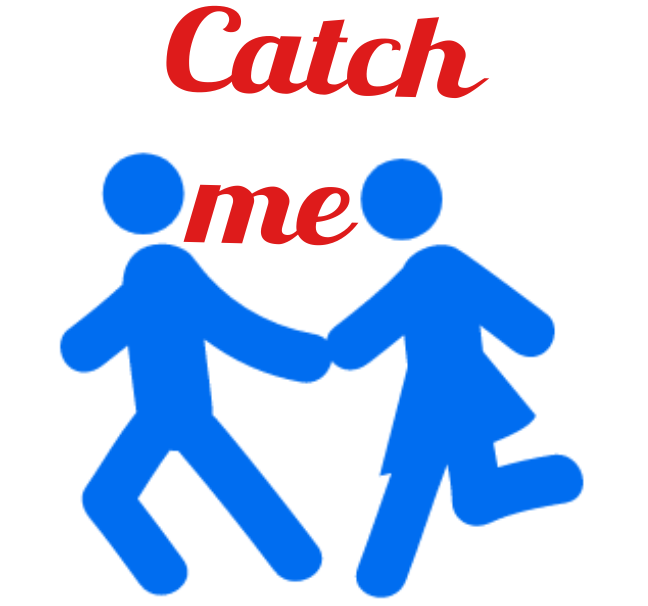
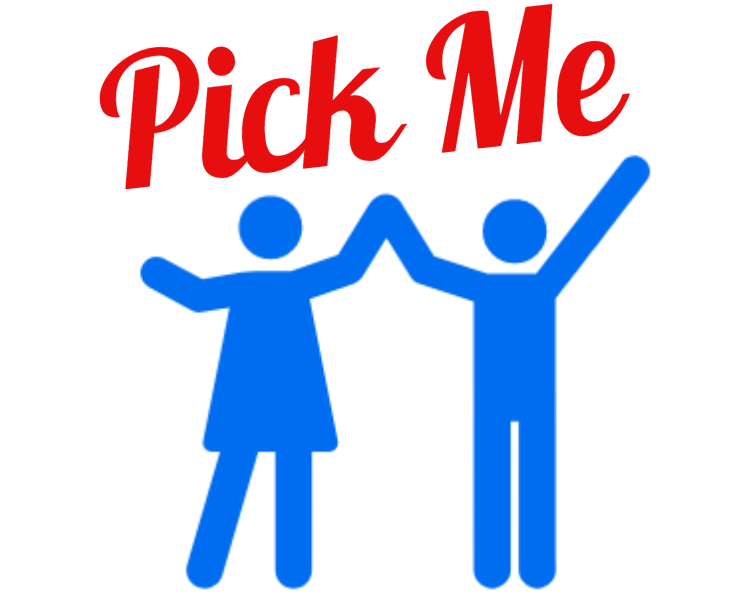
fin

diff --git a/index.html b/index.html
@@ -1,49 +1,86 @@
 <!DOCTYPE html>
 <html>
-  <head>
-    <meta charset="utf-8">
-    <meta name="viewport" content="width=device-width, initial-scale=1">
-    <link rel="stylesheet" href="https://maxcdn.bootstrapcdn.com/bootstrap/4.0.0-alpha.6/css/bootstrap.min.css" integrity="sha384-rwoIResjU2yc3z8GV/NPeZWAv56rSmLldC3R/AZzGRnGxQQKnKkoFVhFQhNUwEyJ" crossorigin="anonymous">
-      <link href="css/styles.css" rel="stylesheet">
-    <title>Catch Me</title>
-  </head>
-  <body>
-<header>
-  <div class="text-center p-2">
-     <img src="image/pic.png" class="rounded" alt="logo" width="300" height="300">
-  </div>
+<head>
+  <meta charset="utf-8">
+  <meta name="viewport" content="width=device-width, initial-scale=1">
+  <link rel="stylesheet" href="https://maxcdn.bootstrapcdn.com/bootstrap/4.0.0-alpha.6/css/bootstrap.min.css" integrity="sha384-rwoIResjU2yc3z8GV/NPeZWAv56rSmLldC3R/AZzGRnGxQQKnKkoFVhFQhNUwEyJ" crossorigin="anonymous">
+  <link href="css/styles.css" rel="stylesheet">
+  <title>Pick Me</title>
+</head>
+<body>
+  <header>
+    <div class="top"></div>
 
-  <section id="contact" class="text-center p-5">
-      <h2 class="p-5">Choisissez :</h2>
-      <div class="row">
-        <div class="col-lg-8 offset-lg-2">
-          <p>Ready to start your next project with us? That's great! Give us a call or send us an email and we<br> will get back to you as soon as possible!
-          </p>
-        </div>
-        <div class="col-lg-4 offset-lg-2 mt-5 mb-5">
-           <img src="image/homme.jpg" class="rounded-circle" alt="people" width="300" height="280">
-          <p>Homme</p>
-        </div>
-        <div class="col-lg-4 mt-5 mb-5">
-          <img src="image/femme.jpg" class="rounded-circle" alt="people" width="300" height="280">
-          <p>Homme</p>
-        </div>
-      </div>
-    </section>
+    <div class="text-center m-5">
+      <img class="img-responsive col-lg-4" alt="Responsive image" src="image/pic.png" width="460" height="345">
+    </div>
 
-
-
+    <section id="pictu" class="text-center pb-5">
+</section>
+      <h2 class="p-5">Bienvenue dans Pick Me</h2>
 </header>
-  <!-- <div><img src="image/pic.png" alt="logo"></div> -->
+      <!-- <a href="#next" class="btn btn-primary btn-lg">Entrer</a> -->
 
-  <div>
-    <!--gab work-->
+      <div class="body">
+      <div class="row">
+            <div class="col-lg-9 offset-lg-2">
+      <h1 class="text-center">Pick Me</h1>
+        <h2 class="text-center">Vous avez un Match !</h2>
+        <p class="text-center">Vous et  Angie ont une affinité !</p>
+      <img src="image/angie.jpg" class="float-right img-responsive width="500" height="400""  alt="Photo d'Angie"/>
+      <img src="image/jared2.jpg" class="float-left img-responsive width="500" height="400""  alt="Photo d'Angie"/>
+      <button type="button" class="btn btn-warning">Envoyer un message</button>
+      <button type="button" class="btn btn-warning">Continuer à jouer</button>
+      </div>
+    </div>
   </div>
 
-  <div>
-    <!--jerry work-->
+  <section class="ins">
+
+  <section class=" row offset-md-2 ">
+  <div class="col-md-6 col-12">
+   <h1>enregistrer-vous</h1>
+    <br>
+   <p>Nom</p>
+   <input id="name" type="text" name="name">
+    <p></p>
+   <p>E-mail</p>
+    <input id="name" type="text" name="name">
+    <p></p>
+   <p>Mot de passe</p>
+   <input id="name" type="text" name="name">
+   <p></p>
+   <p>comfirmer le mot de passe</p>
+   <input id="name" type="text" name="name">
+  <p></p>
+  <button type="button" name="button">valider</button>
+   <p></p>
   </div>
 
+  <!--partie connexion-->
 
-  </body>
+   <div class="col-md-6 col-12">
+   <h1>connexion</h1>
+     <br>
+
+     <p>E-mail</p>
+     <input id="name" type="text" name="name">
+       <p></p>
+     <p>Mot de passe</p>
+     <input id="name" type="text" name="name">
+      <p></p>
+      <br>
+     <button type="button" name="button">connexion</button>
+  </div>
+  </section>
+  </section>
+
+
+
+
+<footer>
+  <div class="down"><p>&copy; 2017 Pick Me.</p></div>
+</footer>
+
+</body>
 </html>

diff --git a/css/styles.css b/css/styles.css
@@ -1,0 +1,68 @@
+/*body {
+background-color: lightblue;
+}*/
+/*.img-responsive{
+max-width: 100%;
+height: auto;
+display:block;
+}*/
+
+
+/*.img-responsive  {
+  width: 100%;
+  height: auto;
+}*/
+
+.img-fluid{
+  width: 100%;
+  height: auto;
+}
+
+.top {
+  background-color: #0099cc;
+  font-size: 12px;
+  padding: 15px;
+}
+
+.down{
+  background-color: #0099cc;
+  color: #ffffff;
+  text-align: center;
+  font-size: 15px;
+  padding: 15px;
+}
+
+.body{
+  width: 760px;
+  height: auto;
+}
+
+
+
+
+
+body {
+ background-color:#709de5 ;
+ color:white;
+}
+
+img {
+ border-radius: 100%;
+ border-color:white;
+ border-style:solid;
+}
+
+button {
+ position: relative;
+ top: 200px;
+ left: 40px;
+}
+
+
+
+
+.ins{
+  padding-left: 150px;
+  /*padding-top: 20px;*/
+background: #709de5 ;
+}
